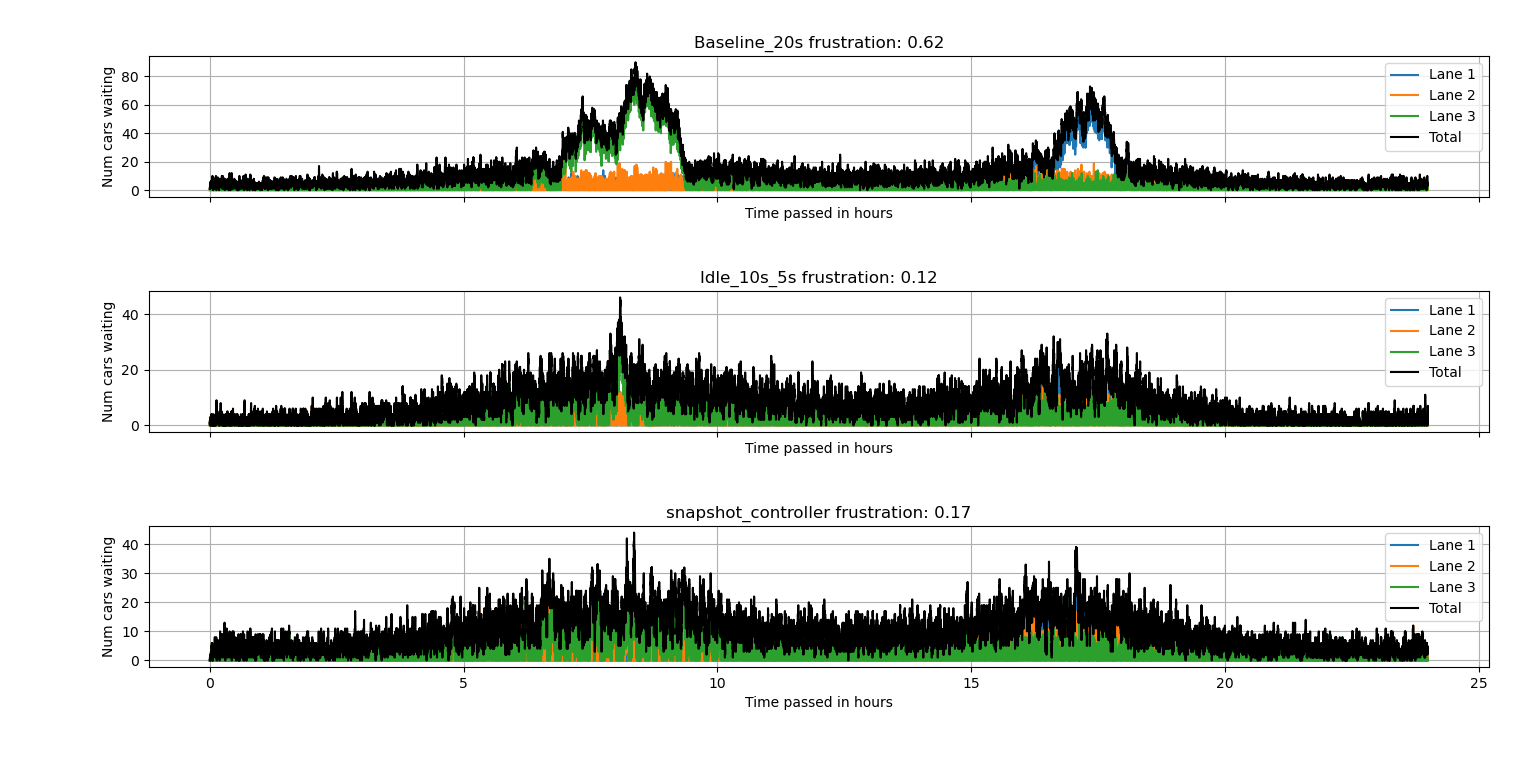
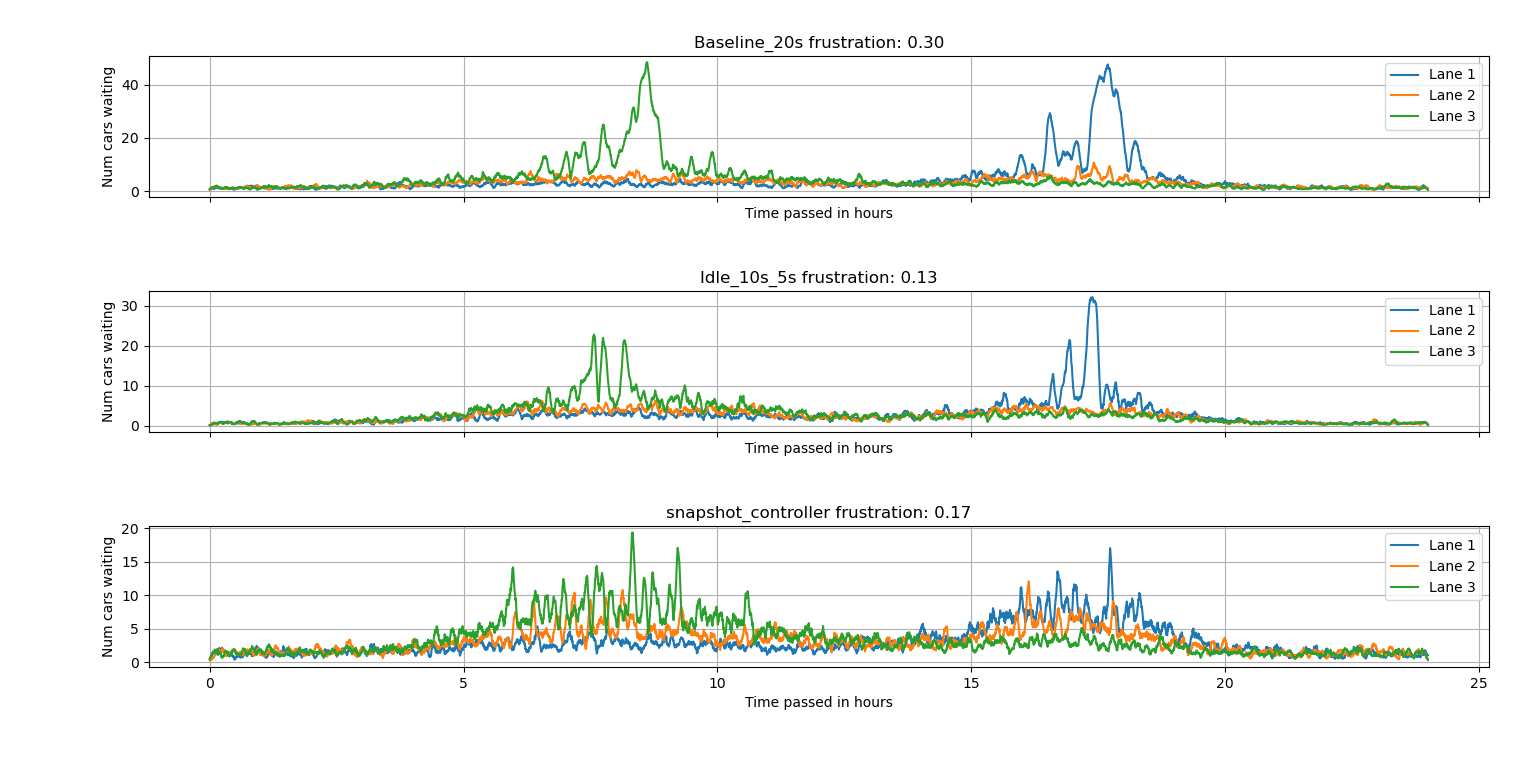
update readme and config

diff --git a/README.md b/README.md
@@ -12,7 +12,7 @@
 ## Introduction
 Commuting to and from work on a daily basis is a frustrating experience to say the least.
 It is especially frustrating when you can pinpoint improvements in the traffic system, that can potentially easily be implemented.
-One such annoyance is the Kennedy Drive traffic lights shown in the below google maps image (Coordinates: 35.94509669780911, 14.412841360782597).
+One such annoyance is the Kennedy Drive traffic lights shown in the below google maps image (Coordinates: `35.9450, 14.4128`).
 
 This is a 3-road junction, with each road having two lanes, and each traffic light having a duration of exactly 20 seconds
 before switching from green to red (yes, I timed it multiple times while I am stuck in traffic).
@@ -127,6 +127,54 @@ class ConstantController(Controller):
 
 </details>
 
+### Incoming Rate
+
+The incoming car rate for lane $`i`$ is varied throughout the day in an attempt to capture the morning evening rush hours.
+
+We would like to capture some important features:
+* Morning rush hour peak at around 8am
+* Evening rush hour peak at around 5pm
+* A baseline traffic flow for the rest of the day
+
+This rate is modelled by summing two beta distributions (since they have a domain between 0 and 1), scale it by 24 times
+representing the whole day, and finally shifting up by a base traffic 
+
+<details>
+<summary>Traffic Rate Function</summary>
+
+```python
+@cache
+def traffic_rate(
+        t_hours: float,
+        morning_peak_time: float = 8,
+        morning_peak_rate: float = 50,
+        evening_peak_time: float = 17,
+        evening_peak_rate: float = 40,
+        baseline_night_rate: float = 5,
+) -> float:
+
+    t_hours = t_hours % 24
+
+    t_beta = t_hours / 24
+    r = morning_peak_time / 24
+    b_morning = 10
+    a_morning = - ((b_morning - 2) * r + 1) / (r - 1)
+
+    r = evening_peak_time / 24
+    b_evening = 10
+    a_evening = - ((b_evening - 2) * r + 1) / (r - 1)
+
+    mode_morning = beta.pdf((a_morning - 1) / (a_morning + b_morning - 2), a_morning, b_morning)
+    mode_evening = beta.pdf((a_evening - 1) / (a_evening + b_evening - 2), a_evening, b_evening)
+
+    morning_rate = beta.pdf(t_beta, a_morning, b_morning) / mode_morning * (morning_peak_rate - baseline_night_rate)
+    evening_rate = beta.pdf(t_beta, a_evening, b_evening) / mode_evening * (evening_peak_rate - baseline_night_rate)
+
+    return baseline_night_rate + morning_rate + evening_rate
+```
+
+</details>
+
 ### Assumptions
 Below are some assumptions taken.
 
@@ -153,7 +201,7 @@ Two natural question arise:
 ### Idle Model
 As I look at the other cars in flowing lanes cruise by, or more frustratingly, watch all three lanes idle
 while no cars are flowing in the green-lit lane, I wonder why that specific lane cannot simply turn red
-so that more trafficous lanes can start moving. This is exactly the strategy of this model. If, for at least P seconds
+so that busier lanes can start moving. This is exactly the strategy of this model. If, for at least P seconds
 no cars enter the lane, the light automatically turns to red, so that other lanes can start moving.
 
 This should almost certainly help the flow of traffic under low or medium traffic conditions. 
@@ -194,7 +242,7 @@ A full 24-hour day is simulated where the exit rate is set to 1 car per second.
 How did I get to this figure? While stuck in traffic, I simply counted the number of cars
 in front of me, and then counted how long it took me to reach the first position. 
 Dividing the two roughly resulted in a rate of one car exit every two seconds.
-Since this junction has two lanes, I multiplied the rate of 0.5 by 2 to get a value of $`\mu=1`$.
+Since all lanes of this junction are dual-carriageways, the rate of 0.5 was multiplied by 2 to get a value of $`\mu=1`$.
 
 A separate bimodal traffic rate was created to simulate the varying flow of traffic throughout the day for each separate lane.
 The bimodal nature reflects the increased spikes of traffic in the morning and afternoon rush
@@ -267,34 +315,38 @@ a dynamic traffic light waiting time.
 ![true_estimate_rate](https://github.com/DylanZammit/Traffic-Control-Simulator/blob/master/img/true_estimate_rate.png?raw=true)
 
 Below are the simulation results of different strategies described in the above section. 
-The black line shows the total number of cars waiting in the roads across all lanes
-whereas the other lines correspond to the cars waiting for the green light for every separate lane.
+The lines correspond to the cars waiting for the green light for every separate lane. 
+The values were smoothed using a windows of 5 minutes for readability.
 
 ![flow_case_1](https://github.com/DylanZammit/Traffic-Control-Simulator/blob/master/img/flow_sim_case_max20.png?raw=true)
 
 This model clearly shows (unsurprisingly) that the worst model out of the three is the baseline model.
-The average car frustration is at 0.62, more than 4 times the other two strategies. 
+The average car frustration is at 0.3, more than twice the other two strategies. 
 Also note the drastic increase in cars waiting in traffic during the morning and evening rush hours.
 Although visible, it is much less evident in the other two models, reaching half the queued cars at the peak.
 
 The Idle model and Snapshot model are much more comparable, with the frustration score being similar. 
 However, what happens when we increase the flow of cars at the peak of rush hour by a little bit?
 The below image shows the same simulation with the only difference being that the entry rate at the peak
-rush hour times is increased from 20 to 25 cars per minute.
+rush hour times is increased from 20 to 22 cars per minute.
 
 ![flow_case_2](https://github.com/DylanZammit/Traffic-Control-Simulator/blob/master/img/flow_sim_case_max25.png?raw=true)
 
 As described earlier, the baseline and idle models become much more similar to each other with increased traffic.
-It is still worth noting that the Baseline model is the worst of the three.
+The baseline model is extremely susceptible to heavy traffic with an increased flow of traffic, reaching a peak of 300 
+cars waiting for Lane 3 at around 10am.
 The snapshot model, on the other hand, adjusted impressively well to the flow of traffic,
 alleviating the burden of traffic across all three lanes throughout the day, with no
-parameter tuning at all.
+parameter tuning at all. All 3 lanes seem to have similar levels of traffic. The idle model in comparison has visible 
+spikes during rush hours. However, during quiter periods throughout the day, performs better than the Snapshot model.
 
-This not only shows that the model is superior to the other two in terms of "frustration metrics".
-It also shows that it is much more robust to traffic conditions due to its dynamic nature.
+This not only shows that the model is comparable or superior to the other two in terms of "frustration metrics".
+It also shows that it is much more robust to traffic conditions due to its dynamic nature. 
+It might make sense to combine the snapshot model with the idle model depending on the time of day for an even 
+better model.
 
 ## Conclusion
 
 Hopefully this project sheds some (more) light on the obviously worsening traffic conditions in Malta.
 Moreover, I hope that such a project inspires greater minds into realising that the traffic problem in Malta
-is solveable, or at the very least improveable with relatively simple changes.
+is solvable, or at the very least improvable with relatively simple changes.
